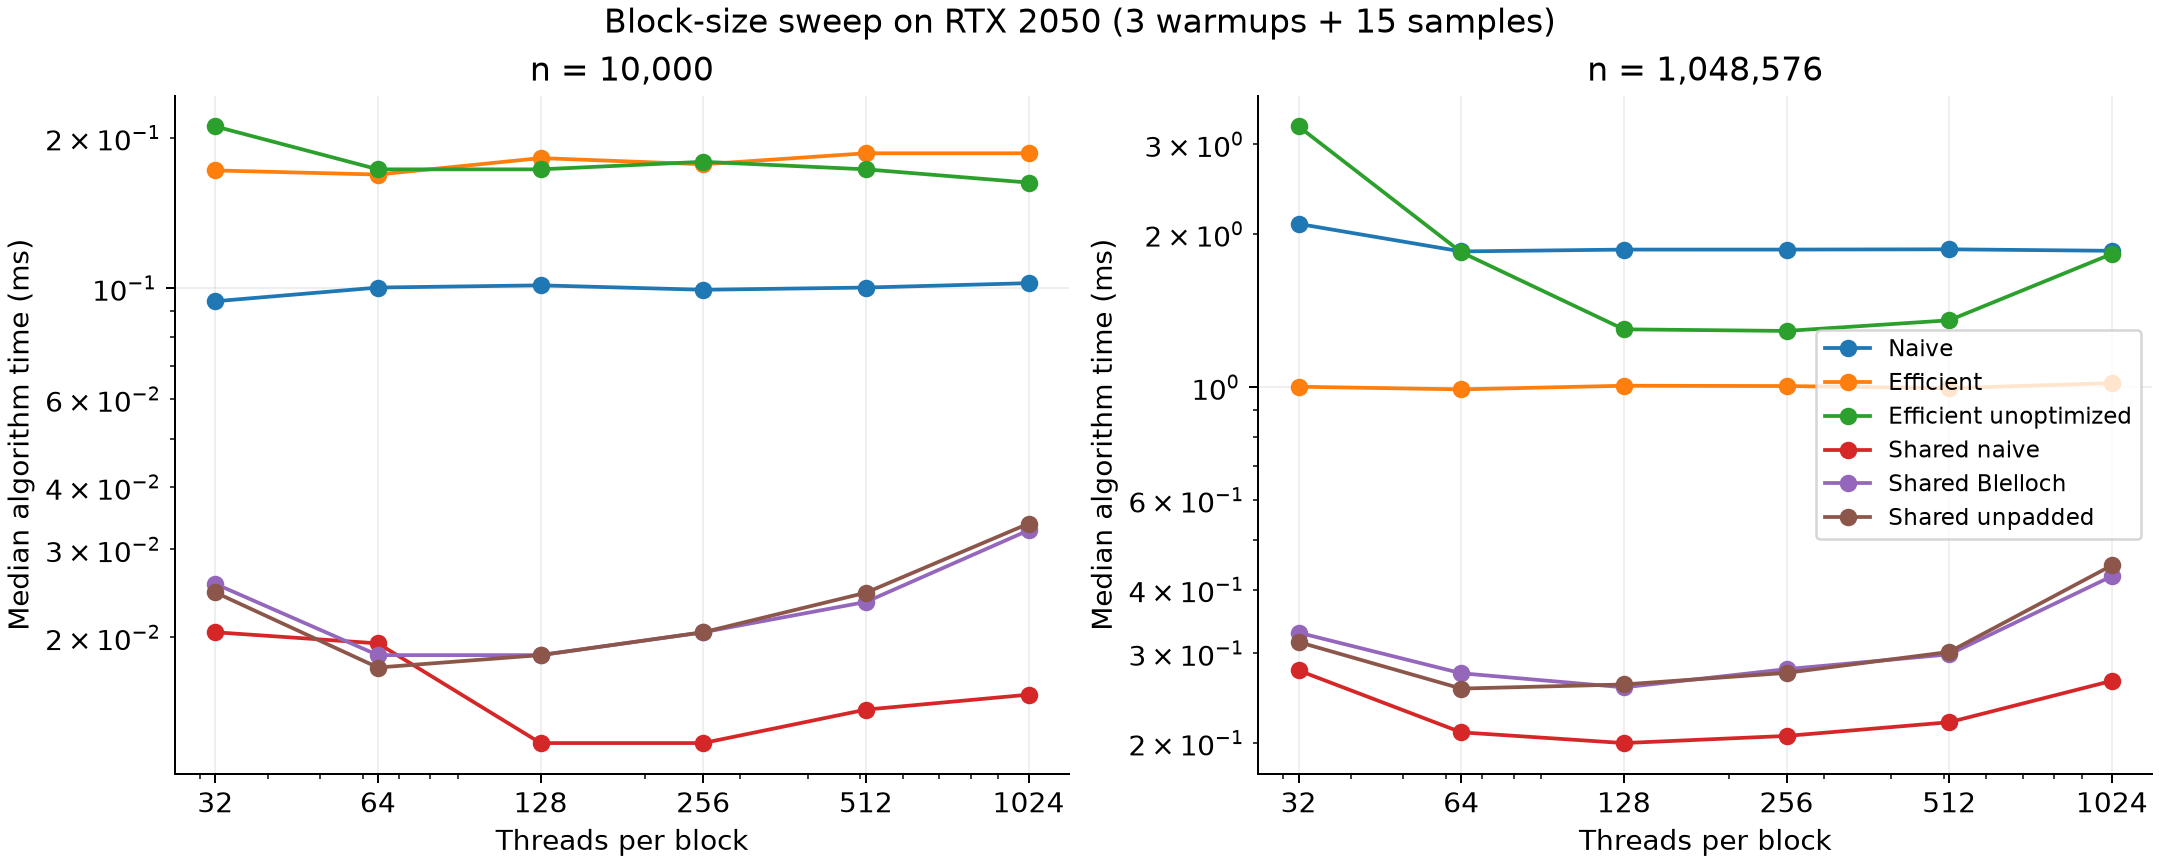
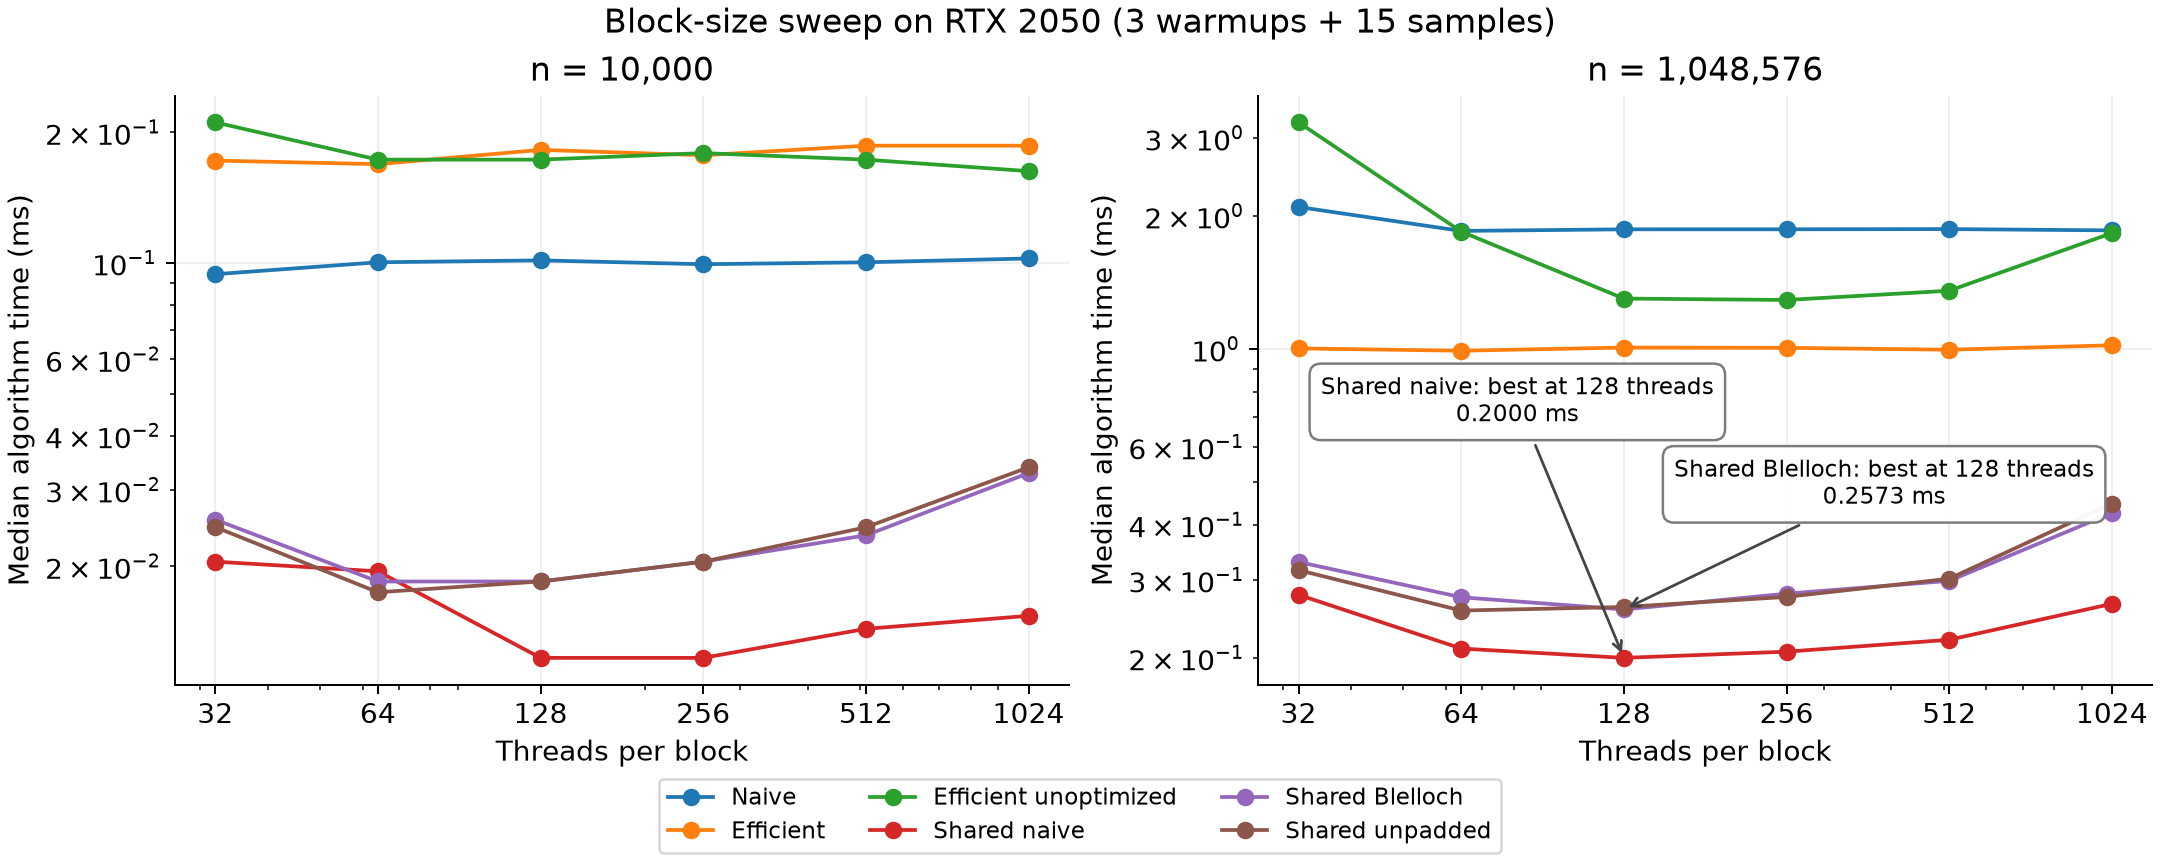
Annotate measured figures and finalize submission README

diff --git a/scripts/plot_results.py b/scripts/plot_results.py
@@ -31,7 +31,21 @@ def series(groups, algorithm, column=0):
     return x, med, lo, hi
 
 
-def curve(name, title, algorithms, column=0):
+def median(algorithm, n, column=0):
+    values = next(values for (a, size, _), values in samples.items()
+                  if a == algorithm and size == n)
+    return statistics.median(value[column] for value in values)
+
+
+def annotate(ax, point, label, position):
+    ax.annotate(label, xy=point, xytext=position, textcoords="axes fraction",
+                fontsize=9, ha="center", va="center",
+                bbox={"boxstyle": "round,pad=0.5", "fc": "white", "ec": "#777777", "alpha": 0.96},
+                arrowprops={"arrowstyle": "->", "color": "#444444", "lw": 1.1},
+                zorder=5)
+
+
+def curve(name, title, algorithms, column=0, notes=()):
     fig, ax = plt.subplots(figsize=(10, 5.6), layout="constrained")
     for algorithm in algorithms:
         x, med, lo, hi = series(samples, algorithm, column)
@@ -40,6 +54,8 @@ def curve(name, title, algorithms, column=0):
     ax.set(xscale="log", yscale="log", xlabel="Array size (integers)", ylabel="Median time (ms)", title=title)
     ax.grid(True, which="major", alpha=0.23)
     ax.legend(fontsize=10)
+    for algorithm, n, label, position in notes:
+        annotate(ax, (n, median(algorithm, n, column)), label, position)
     fig.text(0.5, -0.02, "RTX 2050 | Release | 3 warmups + 15 samples | Shading: interquartile range",
              ha="center", fontsize=9, color="#555555")
     fig.savefig(OUT / name, dpi=180, bbox_inches="tight")
@@ -48,13 +64,33 @@ def curve(name, title, algorithms, column=0):
 
 samples = read_samples("benchmark.csv")
 tuning = read_samples("tuning.csv")
-curve("scan-performance.png", "Exclusive scan: required implementations", ["CPU", "Naive", "Efficient", "Thrust"])
+large = 1048576
+largest = max(n for _, n, _ in samples)
+curve("scan-performance.png", "Exclusive scan: required implementations", ["CPU", "Naive", "Efficient", "Thrust"],
+      notes=[("Efficient", large,
+              f"At n = {large:,}\nGlobal tree: {median('Efficient', large) / median('CPU', large):.2f}x CPU time",
+              (0.49, 0.86)),
+             ("Thrust", largest,
+              f"At n = {largest:,}\nThrust: {median('CPU', largest) / median('Thrust', largest):.2f}x CPU speedup\n(algorithm interval)",
+              (0.80, 0.24))])
 curve("scan-optimizations.png", "Scan optimizations: measured algorithm time",
-      ["CPU", "Efficient unoptimized", "Efficient", "Shared naive", "Shared Blelloch", "Thrust"])
+      ["CPU", "Efficient unoptimized", "Efficient", "Shared naive", "Shared Blelloch", "Thrust"],
+      notes=[("Efficient", large,
+              f"Active-thread indexing: {median('Efficient unoptimized', large) / median('Efficient', large):.2f}x faster\nthan full-grid baseline at n = {large:,}",
+              (0.50, 0.87)),
+             ("Shared Blelloch", large,
+              f"Shared Blelloch: {median('Efficient', large) / median('Shared Blelloch', large):.2f}x faster\nthan global tree at n = {large:,}",
+              (0.78, 0.22))])
 curve("compaction-performance.png", "Stable compaction: approximately 75% retained",
-      ["CPU direct", "CPU scan", "Efficient compact", "Shared compact"])
+      ["CPU direct", "CPU scan", "Efficient compact", "Shared compact"],
+      notes=[("Shared compact", large,
+              f"At n = {large:,}\nShared compaction: {median('CPU direct', large) / median('Shared compact', large):.2f}x CPU direct speedup\n(algorithm interval; excludes transfers)",
+              (0.73, 0.21))])
 curve("scan-wall-time.png", "Scan: complete host API call including allocation and transfers",
-      ["CPU", "Naive", "Efficient", "Shared naive", "Shared Blelloch", "Thrust"], column=1)
+      ["CPU", "Naive", "Efficient", "Shared naive", "Shared Blelloch", "Thrust"], column=1,
+      notes=[("Thrust", largest,
+              f"At n = {largest:,}\nThrust: {median('Thrust', largest, 1):.2f} ms; CPU: {median('CPU', largest, 1):.2f} ms\nTransfers and allocation change the ranking",
+              (0.76, 0.24))])
 
 fig, axes = plt.subplots(1, 2, figsize=(12, 4.8), layout="constrained")
 for ax, n in zip(axes, [10000, 1048576]):
@@ -64,7 +100,12 @@ for ax, n in zip(axes, [10000, 1048576]):
     ax.set(xscale="log", yscale="log", xlabel="Threads per block", ylabel="Median algorithm time (ms)", title=f"n = {n:,}")
     ax.set_xticks([32, 64, 128, 256, 512, 1024], [32, 64, 128, 256, 512, 1024])
     ax.grid(True, alpha=0.2)
-axes[1].legend(fontsize=9)
+for algorithm, position in [("Shared naive", (0.29, 0.48)), ("Shared Blelloch", (0.70, 0.34))]:
+    rows = [(b, statistics.median(t[0] for t in values))
+            for (a, n, b), values in tuning.items() if a == algorithm and n == large]
+    block, time = min(rows, key=lambda row: row[1])
+    annotate(axes[1], (block, time), f"{algorithm}: best at {block} threads\n{time:.4f} ms", position)
+fig.legend(*axes[1].get_legend_handles_labels(), loc="outside lower center", ncol=3, fontsize=9)
 fig.suptitle("Block-size sweep on RTX 2050 (3 warmups + 15 samples)")
 fig.savefig(OUT / "block-size-tuning.png", dpi=180)
 plt.close(fig)

diff --git a/scripts/plot_timeline.py b/scripts/plot_timeline.py
@@ -56,7 +56,7 @@ def color(name):
         return "#CC79A7"
     return "#0072B2"
 
-fig, ax = plt.subplots(figsize=(12, 4.6), layout="constrained")
+fig, ax = plt.subplots(figsize=(12, 5.2), layout="constrained")
 lanes = {"CUDA API": 2, "GPU kernels": 1, "GPU copies": 0}
 for row in rows:
     start, duration = float(row["start_ms"]), float(row["duration_ms"])
@@ -77,7 +77,12 @@ for row in rows:
                     xytext=(start + duration / 2, y + 0.48), ha="center", fontsize=9,
                     arrowprops={"arrowstyle": "-", "color": "#555555"})
         seen.add(name)
-ax.set(yticks=list(lanes.values()), yticklabels=list(lanes), ylim=(-0.4, 2.5),
+allocations = [row for row in rows if row["name"] == "cudaMalloc"]
+for row, label in zip(allocations, ["Input vector", "Output vector", "Temporary allocation\ninside exclusive_scan"]):
+    x = float(row["start_ms"]) + float(row["duration_ms"]) / 2
+    ax.annotate(label, (x, 2.22), xytext=(x, 2.53), ha="center", fontsize=9,
+                arrowprops={"arrowstyle": "->", "color": "#555555"})
+ax.set(yticks=list(lanes.values()), yticklabels=list(lanes), ylim=(-0.4, 2.9),
        xlabel="Milliseconds since first allocation after capture start",
        title="Nsight Systems: one warmed Thrust host call, 1,048,576 integers")
 ax.grid(axis="x", alpha=0.2)

diff --git a/README.md b/README.md
@@ -2,20 +2,15 @@
 
 University of Pennsylvania, CIS 5650: GPU Programming and Architecture, Project 2
 
-<!-- (TODO) YOUR NAME HERE -->
 - Chen Cheng
-  <!-- (TODO) [LinkedIn](), [personal website](), [twitter](), etc. -->
   - [LinkedIn](https://www.linkedin.com/in/chen-andrew-cheng-34a133229/), [GitHub](https://github.com/ischencheng)
-<!-- Tested on: (TODO) Windows 22, i7-2222 @ 2.22GHz 22GB, GTX 222 222MB (Moore 2222 Lab) -->
 - Tested on: Windows 11 Home (10.0.26200), Intel Core i5-12500H (2.50 GHz base), 16 GB RAM,
   NVIDIA GeForce RTX 2050 Laptop GPU, 4096 MB, personal HONOR GLO-FX6P laptop.
-
-<!-- (TODO: Your README) -->
 
 This project implements exclusive prefix sums and stable removal of zero-valued
 integers. It compares CPU scan, naive global-memory scan, Blelloch scan and Thrust.
 Extra-credit implementations explore active-thread indexing, hierarchical shared
-memory, and scan-based radix sort. Original TODO comments remain beside completed code.
+memory, and scan-based radix sort.
 
 ![Required scan comparison](img/scan-performance.png)
 
